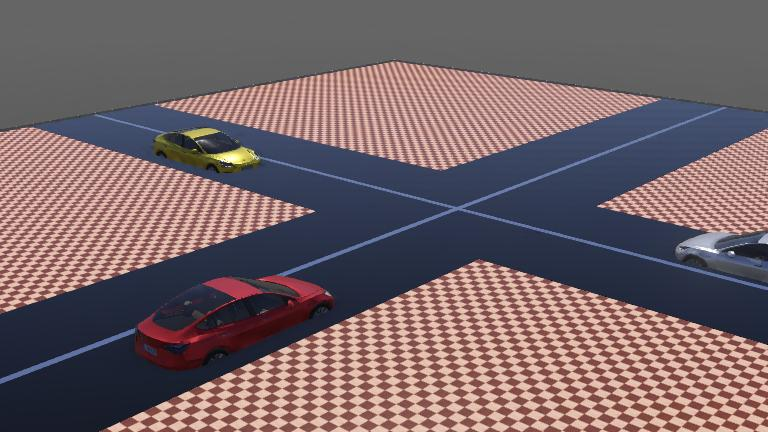
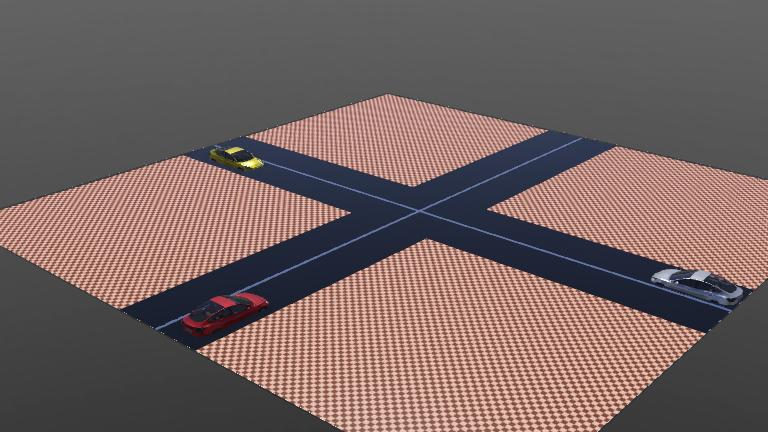
fixing some stuff adding some logs

diff --git a/src/webots/utils/helper_functions.py b/src/webots/utils/helper_functions.py
@@ -22,15 +22,13 @@ def make_agent(world_name: str, agent_id: int, env: WebotsEnv):
     if "q_learning" in world_name:
         return QLearningAgent(agent_id, env.N, env.n_actions,
                               gamma=0.95, base_alpha=0.1, seed=seed)
-
-    elif "ck" in world_name:
-        return CKAgent(agent_id, env.N, env.n_actions,
-                       gamma=0.95, base_alpha=0.1, seed=seed)
-
     elif "ck_colf" in world_name:
         return CKCoLFAgent(agent_id, env.N, env.n_actions,
                            seed=seed, gamma=0.95,
                            alpha_ns=0.1, alpha_s=0.4,
                            colf_lambda=0.1)
+    elif "ck" in world_name:
+        return CKAgent(agent_id, env.N, env.n_actions,
+                       gamma=0.95, base_alpha=0.1, seed=seed)
     else:
         raise ValueError(f"Unknown algorithm for agent {agent_id} in file '{world_name}'")

diff --git a/src/agents/base_agent.py b/src/agents/base_agent.py
@@ -44,3 +44,8 @@ class BaseAgent:
         # Decay alpha based on the count of how many times this state-action pair has been taken. 
         # The more it has been taken, the smaller the learning rate, allowing for more stable learning over time.
         return base_alpha / (1 + 0.0001 * self.n_table[state, action])
+    
+    def print_q_table(self):
+        """Utility function to print the Q-table for debugging."""
+        print(f"Agent {self.agent_id} Q-table:")
+        print(self.q_table)

diff --git a/src/webots/controllers/supervisor_controller/supervisor_controller.py b/src/webots/controllers/supervisor_controller/supervisor_controller.py
@@ -76,6 +76,8 @@ print(f"=== Starting {MAX_STEPS} Episodes for {current_algo} ===")
 
 # Episode loop
 for episode in range(1, MAX_STEPS + 1):
+    print(f"\n=== Episode {episode} ===")
+    
     # Reset metrics for the new episode
     car_data = {i: {"total_dist": 0.0, "prev_pos": None} for i in cars}  # metrics storage
     episode_step = 0

diff --git a/src/exp_env/webots_env.py b/src/exp_env/webots_env.py
@@ -75,7 +75,8 @@ class WebotsEnv:
             cost = (self.k * ai) / (self.M * (1.0 - self.k))
             
             rewards[agent_id] = benefit - cost
-            
+        
+        print(f"Actions: {actions} | Rewards: {rewards}")
         return rewards
 
     @property

diff --git a/src/webots/controllers/car_controller/car_controller.py b/src/webots/controllers/car_controller/car_controller.py
@@ -141,6 +141,10 @@ def run():
         for m in motors:
             m.setVelocity(speed)
 
+        # print q table every 100 steps
+        if t % 100 == 0:
+            agent.print_q_table()
+
 
 if __name__ == "__main__":
     run()
